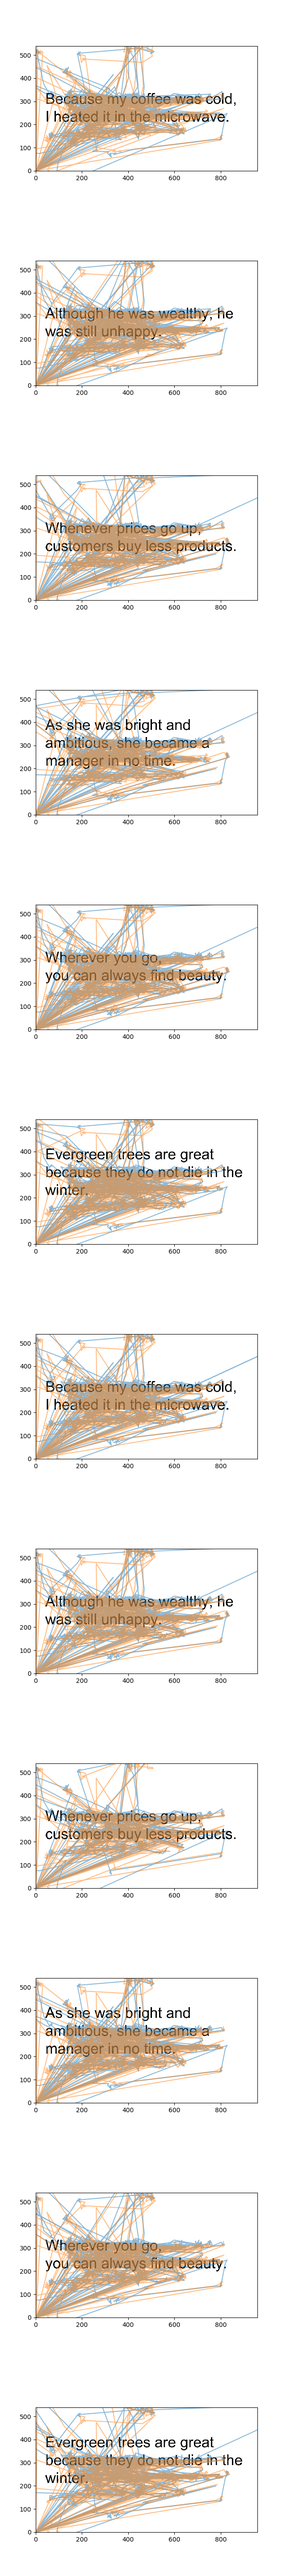
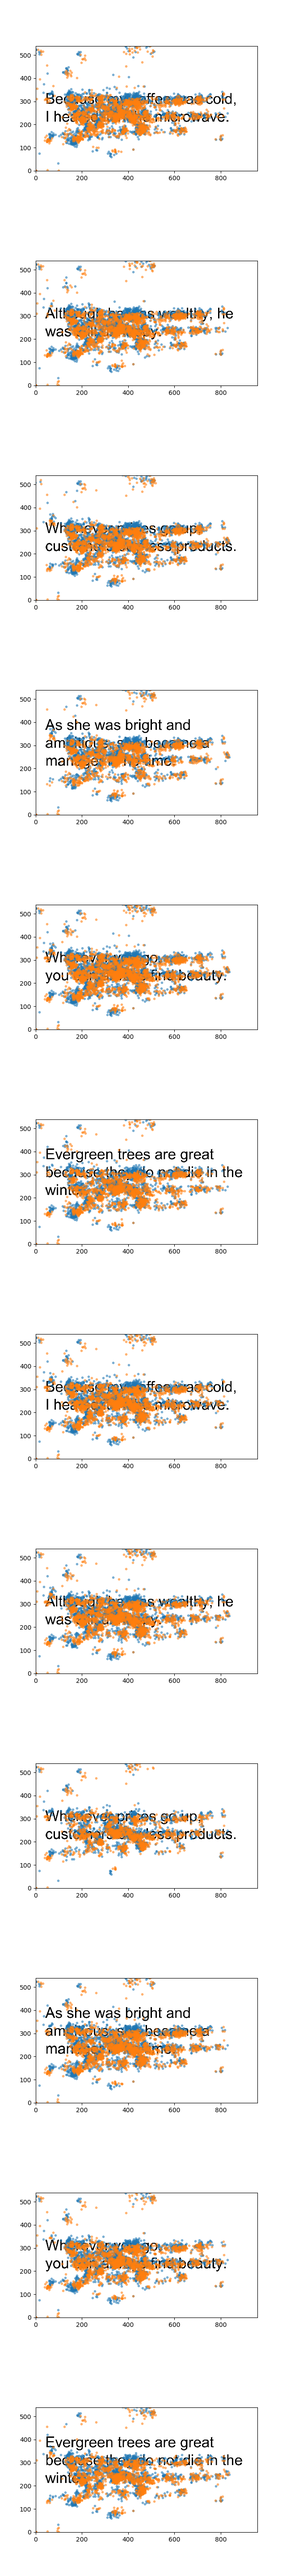
did the thing

diff --git a/segment_data.py b/segment_data.py
@@ -68,8 +68,6 @@ if __name__ == "__main__":
 
 		# get name, data for session
 		name = subj.rstrip(".txt")
-		print("----------------------------------------")
-		print("Subject:", name)
 		itribe_data = load_data(FOLDER + subj)
 
 		# get start/stop time for session
@@ -96,11 +94,9 @@ if __name__ == "__main__":
 			sess = Session(itribe_data, start, end)
 			sent_tracks.append(sess)
 
-			print("Segment", str(i), "starting at:", end="")
-			start.print()
 			# increment start value
 			start.add(per_s)
-
+		
 			# initialize matplotlib figure
 			fig = plt.figure()
 			ax = fig.add_subplot(111)
@@ -124,7 +120,7 @@ if __name__ == "__main__":
 
 			plots.append(plotname)
 			#plt.show()
-			plt.close()
+			plt.clf()
 		# stack all the graphs vertically
 		stack_graphs(plots, name + ".png")
 	#test.print_by_index(0)

diff --git a/session.py b/session.py
@@ -32,7 +32,7 @@ class TrackEye:
 
     def get_eye_plot(self, plt_):
 
-        plt_.plot(self.x, self.y, alpha=0.5)
+        plt_.scatter(self.x, self.y, marker=".", alpha=0.5)
 
 
 class Frame:
